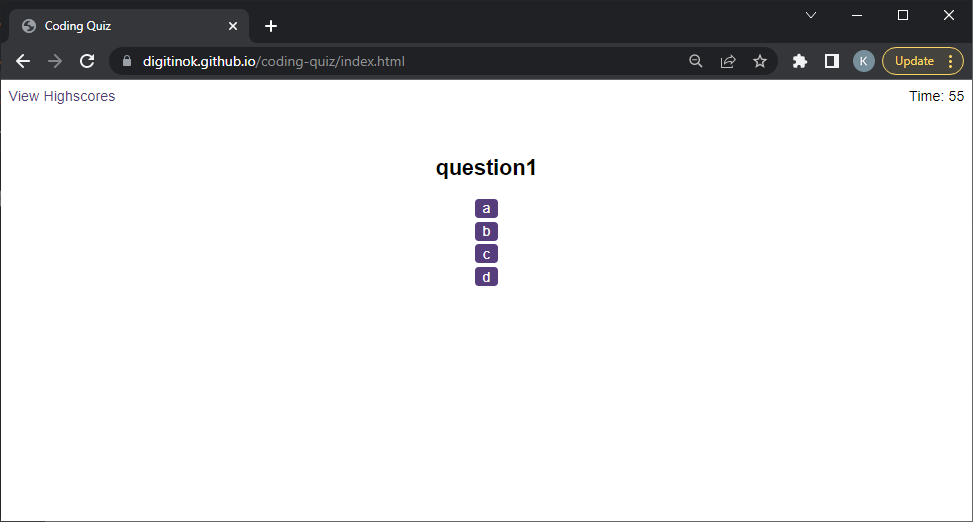
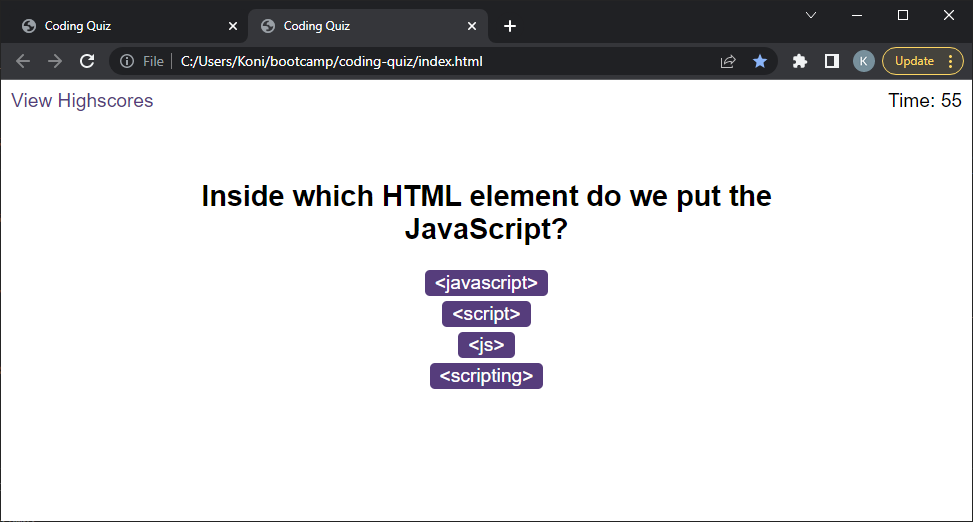
update questions screen shot

diff --git a/assets/js/questions.js b/assets/js/questions.js
@@ -5,9 +5,9 @@ let questions = [
     choices: ["<javascript>","<script>","<js>","<scripting>"],
     answer: "<script>",
     },
-    {title: "question2",
-    choices: ["a","b","c","d"],
-    answer: "d",
+    {title: "Where is the correct place to insert a JavaScript?",
+    choices: ["The <body> section","The <head> section","Both <body> and <head> section","Neither"],
+    answer: "Both <body> and <head> section",
     },
     {title: "question3",
     choices: ["a","b","c","d"],
